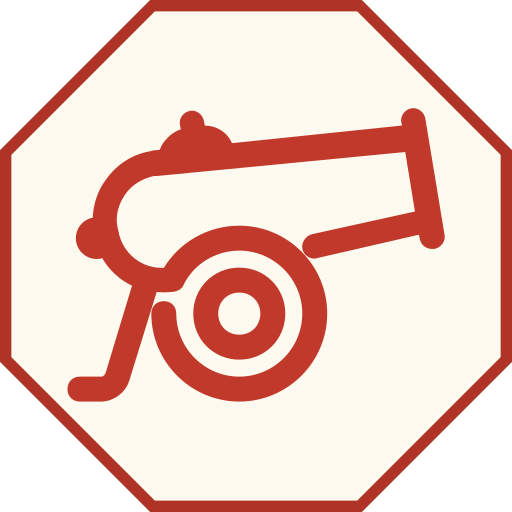
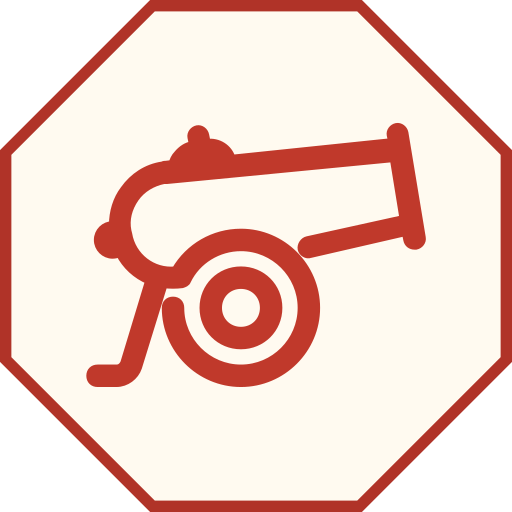
fix: give westernized Janggi pictograms more margin
Reduce pictogram scale by another 10% while keeping every SVG and PNG at 512x512 with tightly cropped octagons. Update the asset regression tests and November changelog for PR #943.

diff --git a/webapp/src/main/resources/templates/about/changelog.html b/webapp/src/main/resources/templates/about/changelog.html
@@ -23,6 +23,12 @@
     <h4>2026-11-02</h4>
     <ul>
         <li>
+            Add westernized Janggi pieces with red and blue pictograms on whitish octagons.
+            Standardize SVG and PNG assets to 512x512, with consistent pictogram sizes and no outer transparent padding
+            (<a href="https://github.com/benckx/elephantchess/pull/943" target="_blank">PR #943</a>,
+            <a href="https://github.com/benckx/elephantchess/issues/942" target="_blank">Issue #942</a>)
+        </li>
+        <li>
             Add shuffle button to randomize Featured Players on Database search page
             (<a href="https://github.com/benckx/elephantchess/pull/611" target="_blank">PR #611</a>,
             <a href="https://github.com/benckx/elephantchess/issues/513" target="_blank">Issue #513</a>)

diff --git a/scripts/test-janggi-piece-assets.py b/scripts/test-janggi-piece-assets.py
@@ -75,12 +75,12 @@ class WesternizedPieceAssetsTest(unittest.TestCase):
                     left, top, right, bottom = mask.getbbox()
                     self.assertLess(abs((left + right) / 2 - 256), 3)
                     self.assertLess(abs((top + bottom) / 2 - 256), 3)
-                    self.assertAlmostEqual(max(right - left, bottom - top), 377, delta=5)
+                    self.assertAlmostEqual(max(right - left, bottom - top), 339, delta=5)
                     self.assertGreater(right - left + bottom - top, 490)
                     for y in range(512):
                         for x in range(512):
                             if mask.getpixel((x, y)):
-                                self.assertLess(abs(x - 256) + abs(y - 256), 334)
+                                self.assertLess(abs(x - 256) + abs(y - 256), 301)
 
     def test_piece_names_keep_original_pictograms(self):
         for name in NAMES:
